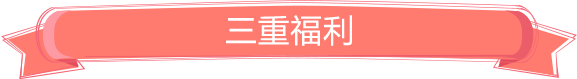
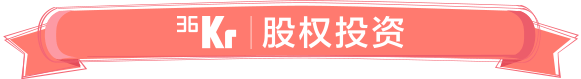
feature 拉新活动升级

diff --git a/src/templates/syndicates/invite/index.html b/src/templates/syndicates/invite/index.html
@@ -1,16 +1,25 @@
 <div class="syndicates-invite" ng-if="!loadingInst.syndicatesInvite">
     <div class="invite-welcome">
-        <img src="styles/images/invite/welcome.png" alt="邀请好友赚翻天">
+        <img class="welcome" src="styles/images/invite/welcome.png" alt="邀请好友赚翻天">
+        <div class="sign-area" ng-if="isLogin">
+            <img class="sign" src="styles/images/invite/invite-sign.png" alt=""/>
+            <p class="name">{{ formUserNmae }}的专属页</p>
+            <p>即刻把专属页面发送给好友</p>
+        </div>
+        <div class="welcome-msg" ng-if="!isLogin">
+            <img class="msg" src="styles/images/invite/invite-join.png" alt=""/>
+        </div>
     </div>
-
     <div class="invite-gifts">
-        <img class="gift-title" src="styles/images/invite/gift-title.png" alt="三重福利">
         <img class="gift-one" src="styles/images/invite/gift-1.png" alt="注册就送200元/位新手好礼">
         <img class="gift-two" src="styles/images/invite/gift-2.png" alt="邀请好友就送500元/位推荐重礼">
-        <img class="gift-three" src="styles/images/invite/gift-3.png" alt="被邀请注册认证就送300/位推荐大礼">
     </div>
-    <div class="invite-skip">
-        <a class="btn" href="#" ui-sref="syndicates">下一个BAT正在融资</a>
+    <div class="invite-intro">
+        <img class="intro" src="styles/images/invite/invite-intro.png" alt="股权投资">
+        <div class="btns clearfix">
+            <a class="btn btn-view" href="#" ui-sref="syndicates">下一个BAT正在融资</a>
+            <a class="btn btn-know" href="#" ui-sref="syndicatesClass">了解股权投资</a>
+        </div>
     </div>
     <div class="invite-records clearfix">
         <div class="records-wrapper">
@@ -29,24 +38,17 @@
         <div class="rules-wrapper">
             <div class="rules-title">活动细则</div>
             <div class="rules-list">
-                <h4>使用方法：</h4>
+                <h4>如何邀请：</h4>
                 <h5>推荐人：</h5>
                 <ul class="usage">
-                    <li>转发专属页面，发送给推荐好友</li>
-                    <li>推荐好友注册认证跟投人并投资后，冷静期结束推荐人即可获得500元推荐重礼。</li>
-                </ul>
-                <h5>被推荐人：</h5>
-                <ul class="usage">
-                    <li>被推荐人直接点击推荐人发送的邀请链接，在36氪完成注册、认证和投资。</li>
+                    <li>点击“立即参与” - 登录36氪账号 - 看到页面显示“xxx的专属邀请页”后，即可把专属页面发给好友。</li>
                 </ul>
                 <h4>福利规则：</h4>
                 <ul class="gifts">
-                    <li>1、成功认证36氪股权投资跟投人都可以参加本次活动。</li>
-                    <li>2、活动时间：2015年11月19日——2015年12月31日。</li>
-                    <li>3、投资券获得即日起，有效期为60天。</li>
-                    <li>4、邀请人的推荐好礼、推荐重礼以被邀请人投资冷静后开始计算，赠送于36氪股权投资人跟投人账户中（支付剩余款时可直接选择抵扣金额）。</li>
-                    <li>5、本活动投资券可抵扣同等金额，保证金不可使用投资券。</li>
-                    <li>6、投资券每笔订单最多可叠加两张使用。</li>
+                    <li>1、活动时间：2015年12月4日——2015年12月31日。</li>
+                    <li>2、投资券将直接发送至您在36氪股权投资的账户中，有效期为60天。</li>
+                    <li>3、投资券可在支付剩余款时抵扣相应金额的现金但不可用于支付保证金。</li>
+                    <li>4、每笔订单最多叠加使用2张使用。</li>
                 </ul>
 
                 <p class="copy-right">本活动最终解释权归36氪所有</p>
@@ -55,12 +57,16 @@
         </div>
     </div>
 
-    <div class="syndicates-invite-stick">
+    <div class="syndicates-invite-stick" ng-if="isLogin">
+        <a class="btn record-btn" href="" ng-click="viewInviteRecord($event);">邀请记录</a>
         <a class="btn share-btn" href=""  data-stat-click="laxinhuodong-h5.fenxiangbutton">
-            求炫耀:{{formUserNmae ? formUserNmae + "的" : ''}}富豪养成计划
+            <span class="icon-share3"></span>
+            点击进行分享
         </a>
-        <a class="btn record-btn" href="" ng-if="!isLogin" login-btn data-stat-click="laxinhuodong-h5.denglubutton">立即参与</a>
-        <a class="btn record-btn" href="" ng-if="isLogin" ng-click="viewInviteRecord($event);">邀请记录</a>
+    </div>
+
+    <div class="syndicates-invite-stick" ng-if="!isLogin">
+        <a class="btn login-btn" href="" login-btn data-stat-click="laxinhuodong-h5.denglubutton">立即参与</a>
     </div>
 </div>
 

diff --git a/src/styles/components/syndicates/invite.less b/src/styles/components/syndicates/invite.less
@@ -3,16 +3,57 @@
     margin: 0 auto;
 
     .invite-welcome {
-        background-color: #f0f6fd;
+        position: relative;
+        background-color: #4c72ef;
 
-        img {
+        .welcome {
             width: 100%;
+        }
+
+        .sign-area {
+            position: absolute;
+            top: 64%;
+            right: 19%;
+            width: 49%;
+            height: 30%;
+
+            .sign {
+                width: 100%;
+            }
+
+            p {
+                font-size: .8em;
+                color: #fff;
+                text-align: center;
+
+                &.name {
+                    position: absolute;
+                    top: 25%;
+                    left: 0;
+                    width: 100%;
+                    height: 24px;
+                    line-height: 24px;
+                    text-align: center;
+                }
+            }
+        }
+
+        .welcome-msg {
+            position: absolute;
+            width: 58%;
+            top: 72%;
+            right: 12%;
+
+            .msg {
+                width: 100%;
+            }
         }
     }
 
     .invite-gifts {
         width: 100%;
-        background-color: #1c1e36;
+        padding-bottom: 25px;
+        background-color: #4c72ef;
 
         .gift-title {
             width: 90%;
@@ -39,21 +80,41 @@
         }
     }
 
-    .invite-skip {
-        padding: 20px 0;
-        background-color: #1c1e36;
-        text-align: center;
+    .invite-intro {
+        width: 100%;
+        padding-bottom: 20px;
+        background-color: #eff3ff;
+        border-bottom: 1px solid #e7eaf4;
 
-        .btn {
-            font-size:18px;
-            border:1px solid #ff7b72;
-            border-radius: 4px;
-            color: #ff7b72;
+        .intro {
+            width: 90%;
+            margin-top: 20px;
+            margin-left: 5%;
+        }
+
+        .btns {
+            padding: 0 5%;
+
+            .btn-view {
+                float: left;
+                color: #fff;
+                background-color: #6e90ff;
+                border-radius: 3px;
+            }
+
+            .btn-know {
+                float: right;
+                color: #6e90ff;
+                background-color: transparent;
+                border: 1px solid #6e90ff;
+                border-radius: 3px;
+            }
         }
     }
 
     .invite-records {
-        background-color: #1c1e36;
+        padding-top: 20px;
+        background-color: #eff3ff;
 
         .records-wrapper {
             position: relative;
@@ -72,8 +133,8 @@
                 color: #fce119;
                 font-size: 1.2em;
                 text-align: center;
-                border-bottom-left-radius: 1.6em;
-                border-bottom-right-radius: 1.6em;
+                border-bottom-left-radius: 1em;
+                border-bottom-right-radius: 1em;
             }
 
             .records-list {
@@ -104,7 +165,7 @@
     }
 
     .invite-rules {
-        background-color: #1c1e36;
+        background-color: #eff3ff;
         border-radius: 2px;
         padding-bottom: 40px;
 
@@ -117,7 +178,7 @@
             border-top-right-radius: 2px;
 
             .rules-title {
-                background-color: #363853;
+                background-color: #4f5467;
                 height: 2em;
                 width: 60%;
                 margin: 0 auto;
@@ -125,8 +186,8 @@
                 color: #fff;
                 font-size: 1.2em;
                 text-align: center;
-                border-bottom-left-radius: 1.6em;
-                border-bottom-right-radius: 1.6em;
+                border-bottom-left-radius: 1em;
+                border-bottom-right-radius: 1em;
             }
         }
 
@@ -181,7 +242,7 @@
         .btn {
             height: 40px;
             padding: 8px;
-            background-color: #fd9d2d;
+            background-color: #ff8189;
             color: #fff;
             text-align: center;
             border-radius: 0;
@@ -194,7 +255,7 @@
 
             &.record-btn {
                 float: left;
-                width: 26%;
+                width: 36%;
                 background-color: #f6f6f6;
                 color: #666;
                 text-decoration: underline;
@@ -202,7 +263,9 @@
 
             &.share-btn {
                 float: left;
-                width: 74%;
+                width: 64%;
+                color: #fff;
+                background-color: #ff8189;
             }
         }
     }
@@ -218,6 +281,9 @@
 
         li {
             margin-bottom: 8px;
+            white-space: nowrap;
+            overflow: hidden;
+            text-overflow: ellipsis;
 
             a {
                 color: #3c3c3c;

diff --git a/src/scripts/controllers/syndicatesValidateController.js b/src/scripts/controllers/syndicatesValidateController.js
@@ -6,7 +6,7 @@ var angular = require('angular');
 
 angular.module('defaultApp.controller').controller('syndicatesValidateController',
     function($scope, $rootScope, $state, $stateParams, $modal, $upload, notify, $timeout, loading, UserService, checkForm, AndroidUploadService, ErrorService, DefaultService, DictionaryService, CrowdFundingService, CoInvestorService) {
-        document.title = '富豪养成计划';
+        document.title = '来36氪做股东';
         $scope.$on('$locationChangeStart', function() {
             document.title = '36氪股权融资';
         });

diff --git a/src/scripts/controllers/syndicatesInviteController.js b/src/scripts/controllers/syndicatesInviteController.js
@@ -6,7 +6,7 @@ var angular = require('angular');
 
 angular.module('defaultApp.controller').controller('SyndicatesInviteController',
     function($scope, $state, $stateParams, $q, $modal, notify, $timeout, $interval, loading, UserService, CrowdFundingService, ErrorService, DictionaryService, CoInvestorService) {
-        document.title = '富豪养成计划';
+        document.title = '来36氪做股东';
         $scope.$on('$locationChangeStart', function() {
             document.title = '36氪股权融资';
         });

diff --git a/src/scripts/controllers/syndicatesShareController.js b/src/scripts/controllers/syndicatesShareController.js
@@ -8,7 +8,7 @@ angular.module('defaultApp.controller').controller('SyndicatesShareController',
     function($scope, $state, $stateParams, $modal, notify, $timeout, loading, UserService, CrowdFundingService, ErrorService, DictionaryService, CoInvestorService) {
         loading.show("syndicatesShare");
 
-        document.title = '富豪养成计划';
+        document.title = '来36氪做股东';
         $scope.$on('$locationChangeStart', function() {
             document.title = '36氪股权融资';
         });

diff --git a/src/scripts/controllers/syndicatesGiftController.js b/src/scripts/controllers/syndicatesGiftController.js
@@ -8,7 +8,7 @@ angular.module('defaultApp.controller').controller('SyndicatesGiftController',
     function($scope, $state, $stateParams, $modal, notify, $timeout, loading, UserService, CrowdFundingService, ErrorService, DictionaryService, CoInvestorService) {
         loading.show("syndicatesGift");
 
-        document.title = '富豪养成计划';
+        document.title = '来36氪做股东';
         $scope.$on('$locationChangeStart', function() {
             document.title = '36氪股权融资';
         });
